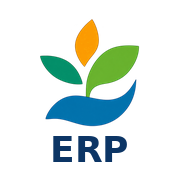
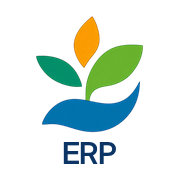
v023: 아이콘 ERP 글자를 굵은 Inter 글꼴로
Claude-Session: https://claude.ai/code/session_012heisE4s23qi1oYXL3S48X

Changed region(s): [[0.2222, 0.2222, 0.8056, 0.9167], [0.1944, 0.0833, 0.6111, 0.5], [0.2778, 0.5833, 0.3056, 0.6111]]

diff --git a/public/sw.js b/public/sw.js
@@ -1,1 +1,1 @@
-const C='canaan-erp-v022';self.addEventListener('install',e=>e.waitUntil(caches.open(C).then(c=>c.addAll(['./','index.html','styles.css','app.js','config.js','manifest.webmanifest','erp-icon-192.png','erp-icon-512.png']))));self.addEventListener('activate',e=>e.waitUntil(caches.keys().then(ks=>Promise.all(ks.filter(k=>k!==C).map(k=>caches.delete(k))))));self.addEventListener('fetch',e=>{if(e.request.method!=='GET'||new URL(e.request.url).pathname.startsWith('/api/'))return;e.respondWith(fetch(e.request).catch(()=>caches.match(e.request)))})
+const C='canaan-erp-v023';self.addEventListener('install',e=>e.waitUntil(caches.open(C).then(c=>c.addAll(['./','index.html','styles.css','app.js','config.js','manifest.webmanifest','erp-icon-192.png','erp-icon-512.png']))));self.addEventListener('activate',e=>e.waitUntil(caches.keys().then(ks=>Promise.all(ks.filter(k=>k!==C).map(k=>caches.delete(k))))));self.addEventListener('fetch',e=>{if(e.request.method!=='GET'||new URL(e.request.url).pathname.startsWith('/api/'))return;e.respondWith(fetch(e.request).catch(()=>caches.match(e.request)))})

diff --git a/public/index.html b/public/index.html
@@ -5,10 +5,10 @@
 <meta name="viewport" content="width=device-width,initial-scale=1,viewport-fit=cover">
 <meta name="theme-color" content="#0C3565">
 <title>가나안ERP</title>
-<link rel="manifest" href="manifest.webmanifest?v=erp022">
-<link rel="icon" type="image/png" href="erp-icon-192.png">
-<link rel="apple-touch-icon" href="erp-apple-touch-icon.png">
-<link rel="stylesheet" href="styles.css?v=erp022">
+<link rel="manifest" href="manifest.webmanifest?v=erp023">
+<link rel="icon" type="image/png" href="erp-icon-192.png?v=2">
+<link rel="apple-touch-icon" href="erp-apple-touch-icon.png?v=2">
+<link rel="stylesheet" href="styles.css?v=erp023">
 </head>
 <body>
 <div id="loginView" class="center-screen">
@@ -456,6 +456,6 @@
 <script src="https://cdn.jsdelivr.net/npm/sortablejs@1.15.2/Sortable.min.js"></script>
 <script src="https://cdn.jsdelivr.net/npm/@supabase/supabase-js@2"></script>
 <script src="config.js?v=pt-supabase-rebind-1"></script>
-<script src="app.js?v=erp022"></script>
+<script src="app.js?v=erp023"></script>
 
 </body></html>
